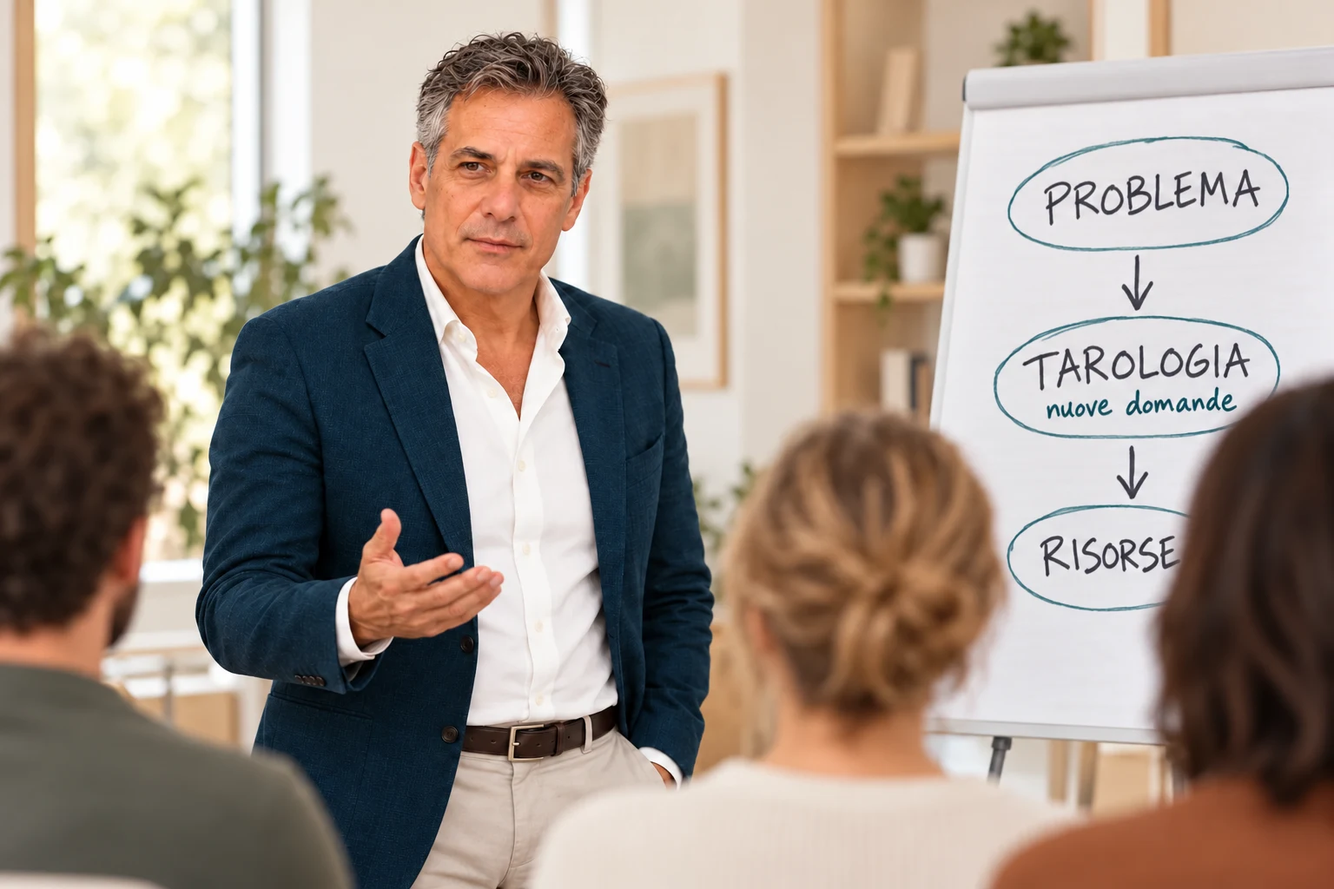
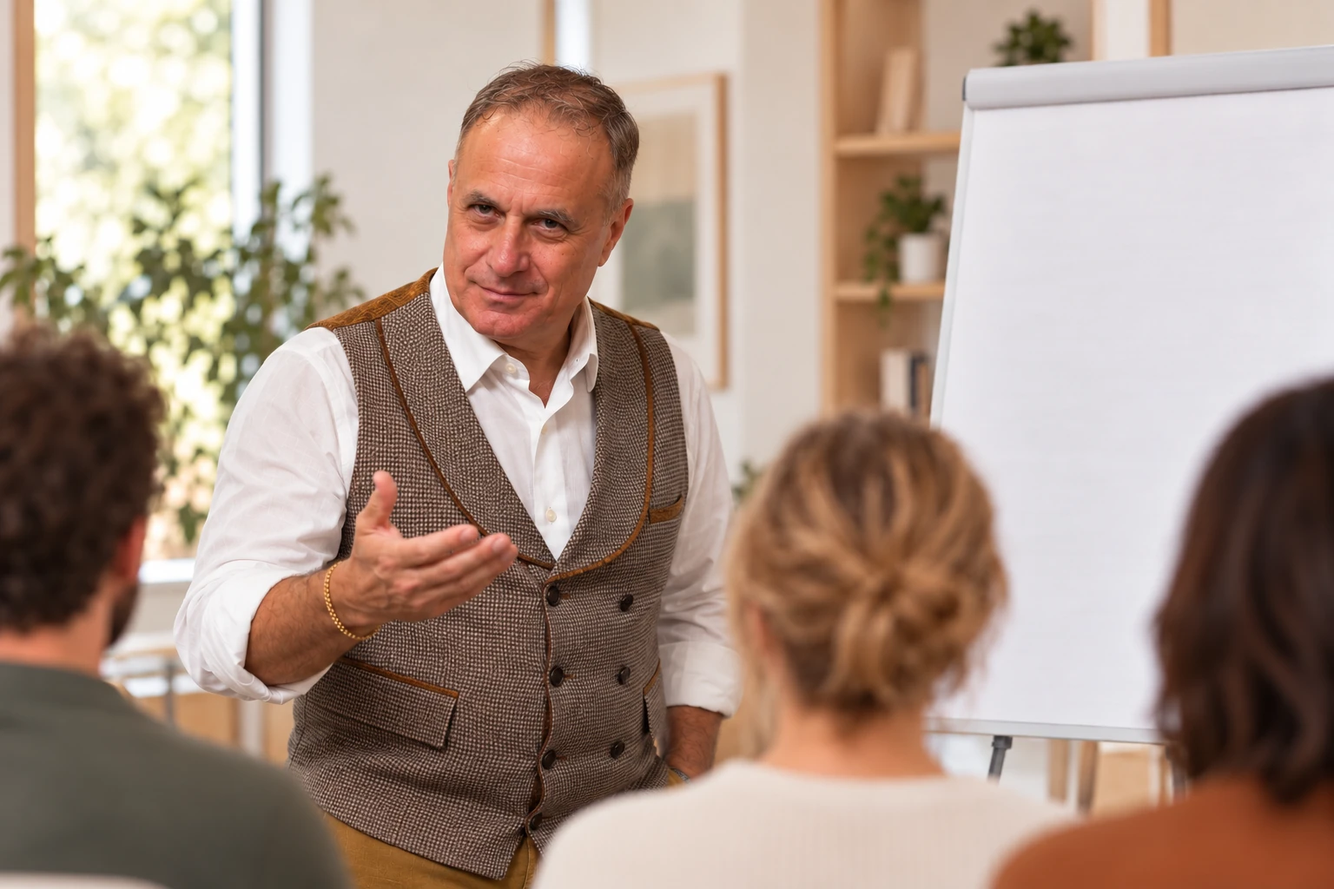
Replace Leonardo Valli photos with Paolo Musetti

diff --git a/index.html b/index.html
@@ -1,5 +1,5 @@
 <!doctype html>
-<html lang="it"><head><meta charset="utf-8"><meta name="viewport" content="width=device-width,initial-scale=1"><title>Trasformazione — Tarot and Coaching | Leonardo Valli</title><meta name="description" content="Tarologia per il business, le relazioni e i progetti. Consulenza individuale con i Tarocchi e strumenti di comunicazione."><meta name="theme-color" content="#174c49"><meta property="og:title" content="Trasformazione — Tarot and Coaching"><meta property="og:description" content="Hai un progetto da realizzare? Il primo passo è un dialogo."><meta property="og:type" content="website"><link rel="icon" href="assets/favicon.svg" type="image/svg+xml"><link rel="stylesheet" href="style.css?v=2"><script src="assets/site.js" defer></script>
+<html lang="it"><head><meta charset="utf-8"><meta name="viewport" content="width=device-width,initial-scale=1"><title>Trasformazione — Tarot and Coaching | Paolo Musetti</title><meta name="description" content="Tarologia per il business, le relazioni e i progetti. Consulenza individuale con i Tarocchi e strumenti di comunicazione."><meta name="theme-color" content="#174c49"><meta property="og:title" content="Trasformazione — Tarot and Coaching"><meta property="og:description" content="Hai un progetto da realizzare? Il primo passo è un dialogo."><meta property="og:type" content="website"><link rel="icon" href="assets/favicon.svg" type="image/svg+xml"><link rel="stylesheet" href="style.css?v=2"><script src="assets/site.js" defer></script>
 <style>
 /* Apertura con immagine intera: nessun ritaglio del volto o delle carte. */
 .hero.service-hero{position:relative;display:grid;grid-template-columns:.92fr 1.08fr;align-items:center;gap:30px;width:min(1320px,92%);margin:0 auto;min-height:0;height:auto;padding:26px 0;overflow:visible;background:#fdfcf9}
@@ -52,8 +52,8 @@
 .method-cta{margin-top:10px}
 @media(max-width:640px){.method-intro{font-size:16px;margin-bottom:16px}.method-applications{margin-top:18px;padding-top:16px}.method-cases{grid-template-columns:1fr;gap:13px}.method-cases article>p:last-child{font-size:15px}}
 </style>
-</head>
-<body><a class="skip" href="#contenuto">Vai al contenuto</a><header><a class="brand" href="./" aria-label="Trasformazione.it, home">Trasformazione.it<span>Tarot and Coaching</span></a><button class="menu-toggle" aria-controls="navigazione" aria-expanded="false" hidden>Menu <span aria-hidden="true">☰</span></button><nav id="navigazione" aria-label="Principale"><a href="consulenza.html">Consulenza</a><a href="#metodo">Metodo</a><a href="#leonardo">Leonardo</a><a href="#formazione">Formazione</a><a href="#libri">Libri</a><a class="nav-cta" href="#contatti">Parliamone ↗</a></nav></header>
+<style>.method-layout img,.profile>img,#formazione>img,.psychomagic>img,.contact-intro img{height:auto;aspect-ratio:3/2;object-fit:contain}</style></head>
+<body><a class="skip" href="#contenuto">Vai al contenuto</a><header><a class="brand" href="./" aria-label="Trasformazione.it, home">Trasformazione.it<span>Tarot and Coaching</span></a><button class="menu-toggle" aria-controls="navigazione" aria-expanded="false" hidden>Menu <span aria-hidden="true">☰</span></button><nav id="navigazione" aria-label="Principale"><a href="consulenza.html">Consulenza</a><a href="#metodo">Metodo</a><a href="#paolo">Paolo</a><a href="#formazione">Formazione</a><a href="#libri">Libri</a><a class="nav-cta" href="#contatti">Parliamone ↗</a></nav></header>
 <main id="contenuto"><section class="hero service-hero" aria-labelledby="titolo">
   <div class="hero-copy">
     <p class="eyebrow">CONSULENZA INDIVIDUALE CON I TAROCCHI</p>
@@ -64,15 +64,15 @@
     <a class="text-link" href="consulenza.html#come-si-svolge">Come si svolge la consulenza ↓</a>
   </div>
   <div class="service-visual">
-    <img src="assets/consulenza.webp" alt="Scena illustrativa della consulenza: Leonardo dialoga con una persona, con i Tarocchi sul tavolo" width="1536" height="1024" fetchpriority="high">
-    <p class="service-caption">LEONARDO VALLI</p>
+    <img src="assets/paolo-consultazione.webp" alt="Paolo Musetti dialoga con una persona con tre carte sul tavolo" width="1536" height="1024" fetchpriority="high">
+    <p class="service-caption">PAOLO MUSETTI</p>
   </div>
 </section>
 <section class="intro wrap"><p class="eyebrow">DA DOVE VUOI PARTIRE?</p><h2>Non serve avere già<br>tutte le risposte.</h2><div class="three situations"><article><span class="number">01 / UN PROGETTO</span><h3>Dare forma a un’idea.</h3><p>Un’intuizione, un nuovo percorso, qualcosa che vuoi costruire. Uno spazio per mettere a fuoco ciò che desideri e ciò che ti trattiene.</p></article><article><span class="number">02 / UN DESIDERIO</span><h3>Ascoltare ciò che emerge.</h3><p>A volte sai che vuoi cambiare, ma non hai ancora le parole. Le immagini possono offrirti un punto da cui cominciare.</p></article><article><span class="number">03 / UNA SCELTA</span><h3>Guardare le possibilità.</h3><p>Quando le strade sono più di una, osservare la situazione da un’altra prospettiva può aiutarti a formulare domande più precise.</p></article></div></section>
 <section id="metodo" class="method"><div class="wrap">
   <div class="section-heading"><div><p class="eyebrow">IL METODO, PASSO DOPO PASSO</p><h2>Dalla domanda<br>a una Traccia concreta.</h2></div><p>Le carte aprono prospettive.<br>La scelta resta tua.</p></div>
   <p class="method-intro">Il Metodo Arianna mette in relazione una domanda, le immagini dei Tarocchi e la situazione di chi le osserva. La ricerca di <em>Logos e Risonanza</em> aggiunge attenzione alle parole che emergono e a come vengono sentite. Il significato non è imposto dalla carta: prende forma nel dialogo.</p>
-  <div class="method-layout"><img src="assets/metodo.webp" alt="Leonardo osserva una carta in una scena illustrativa del metodo" width="1536" height="1024" loading="lazy"><ol class="steps">
+  <div class="method-layout"><img src="assets/paolo-carta.webp" alt="Paolo Musetti osserva una carta decorata" width="1536" height="1024" loading="lazy"><ol class="steps">
     <li><h3>Mettere a fuoco la domanda.</h3><p>Partiamo da una situazione reale e la formuliamo in modo esplorabile: una scelta, una relazione, un progetto.</p></li>
     <li><h3>Guardare l’immagine.</h3><p>Osserviamo dettagli, gesti e rapporti tra le figure prima di ricorrere ai significati già conosciuti. La carta diventa una scena da interrogare.</p></li>
     <li><h3>Ascoltare le parole e la risonanza.</h3><p>Nel dialogo notiamo quali parole attirano l’attenzione e che cosa la persona vi riconosce. Una reazione o un’emozione è uno spunto soggettivo da esplorare, non una prova.</p></li>
@@ -86,11 +86,11 @@
   <p class="method-note">Non si tratta di prevedere il futuro o di stabilire cosa devi fare. Le carte aiutano a osservare; le decisioni restano tue. Il metodo è uno strumento di esplorazione e dialogo, non sostituisce consulenze professionali specialistiche.</p>
   <a class="text-link method-cta" href="#contatti">Porta una domanda al dialogo ↗</a>
 </div></section>
-<section id="leonardo" class="split wrap profile"><div class="section-copy"><p class="eyebrow">CHI TI ACCOMPAGNA</p><h2>Leonardo Valli.<br>Uno spazio per la tua domanda.</h2><p class="lead">Immagini, ascolto e domande per esplorare progetti, scelte e cambiamenti.</p><p>Al centro ci sono la tua situazione, le immagini e le parole che emergono. L’approccio unisce osservazione, ascolto e domande precise per esplorare progetti, desideri e scelte.</p><p class="disclosure">I rapporti a voce, per iscritto e le consulenze sono seguiti personalmente. Il volto di Leonardo è elaborato digitalmente; le scene del sito sono illustrative.</p><a class="text-link" href="#metodo">Scopri l’approccio ↗</a></div><img src="assets/leonardo.webp" alt="Ritratto digitale di Leonardo Valli all’aperto" width="1536" height="1024" loading="lazy"></section>
+<section id="paolo" class="split wrap profile"><div class="section-copy"><p class="eyebrow">CHI TI ACCOMPAGNA</p><h2>Paolo Musetti.<br>Uno spazio per la tua domanda.</h2><p class="lead">Immagini, ascolto e domande per esplorare progetti, scelte e cambiamenti.</p><p>Al centro ci sono la tua situazione, le immagini e le parole che emergono. L’approccio unisce osservazione, ascolto e domande precise per esplorare progetti, desideri e scelte.</p><p class="disclosure">I rapporti a voce, per iscritto e le consulenze sono seguiti personalmente. Le immagini del sito sono elaborate digitalmente e rappresentano scene illustrative.</p><a class="text-link" href="#metodo">Scopri l’approccio ↗</a></div><img src="assets/paolo-ritratto.webp" alt="Ritratto di Paolo Musetti davanti a una biblioteca" width="1536" height="1024" loading="lazy"></section>
 <section class="quote-band"><div class="wrap"><p>Uno sguardo diverso può essere<br>l’inizio di qualcosa di concreto.</p><span>TRASFORMAZIONE / TAROT AND COACHING</span></div></section>
-<section id="formazione" class="split wrap"><img src="assets/formazione.webp" alt="Leonardo presenta alla lavagna lo schema Problema, Tarologia, Risorse" width="1536" height="1024" loading="lazy"><div class="section-copy"><p class="eyebrow">FORMAZIONE</p><h2>Imparare attraverso<br>l’esperienza.</h2><p class="lead">Immagini, parole e comunicazione diventano occasioni di pratica e confronto.</p><p>La formazione è uno spazio distinto dalla consulenza individuale. Il suo centro è l’esperienza: osservare, formulare domande, ascoltare e sperimentare modi diversi di comunicare.</p><p>Per un incontro o un percorso dedicato al tuo gruppo, raccontami il contesto e l’obiettivo: potremo valutare insieme una proposta.</p><a class="text-link" href="#contatti">Parliamo del tuo gruppo ↗</a></div></section>
+<section id="formazione" class="split wrap"><img src="assets/paolo-formazione.webp" alt="Paolo Musetti durante una spiegazione davanti a un gruppo e a una lavagna" width="1536" height="1024" loading="lazy"><div class="section-copy"><p class="eyebrow">FORMAZIONE</p><h2>Imparare attraverso<br>l’esperienza.</h2><p class="lead">Immagini, parole e comunicazione diventano occasioni di pratica e confronto.</p><p>La formazione è uno spazio distinto dalla consulenza individuale. Il suo centro è l’esperienza: osservare, formulare domande, ascoltare e sperimentare modi diversi di comunicare.</p><p>Per un incontro o un percorso dedicato al tuo gruppo, raccontami il contesto e l’obiettivo: potremo valutare insieme una proposta.</p><a class="text-link" href="#contatti">Parliamo del tuo gruppo ↗</a></div></section>
 <section id="libri" class="books wrap"><div class="section-heading"><div><p class="eyebrow">LIBRI E RICERCA</p><h2>I nostri libri</h2></div><p>Tre libri sul rapporto tra immagini,<br>parole e significato.</p></div><div class="book-list"><article><span class="book-index">01</span><div><p class="eyebrow">PAOLO MUSETTI · 2026</p><h3>TAROT — Il Metodo Arianna</h3><p class="subtitle">Tarocchi, simbolo, rito e corpo: dal significato alla Traccia.</p><p>Un percorso che mette in relazione domanda, immagine, osservazione ed esperienza personale.</p></div><a href="https://www.amazon.it/dp/B0H6354LLS" target="_blank" rel="noopener noreferrer" aria-label="TAROT — Il Metodo Arianna su Amazon, nuova scheda">Scopri su Amazon ↗</a></article><article><span class="book-index">02</span><div><p class="eyebrow">PAOLO MUSETTI · 2026</p><h3>Guarda la Carta</h3><p class="subtitle">Il metodo Occhi di Bambino per osservare i Tarocchi prima di interpretarli.</p><p>Un invito a partire da ciò che vedi: dettagli, relazioni e domande, prima dei significati già conosciuti.</p></div><a href="https://www.amazon.it/dp/B0H6C194GN" target="_blank" rel="noopener noreferrer" aria-label="Guarda la Carta su Amazon, nuova scheda">Scopri su Amazon ↗</a></article><article><span class="book-index">03</span><div><p class="eyebrow">PAOLO ABOZZI · 2026</p><h3>Logos e Risonanza</h3><p class="subtitle">La Traccia della Parola.</p><p>Una ricerca sul linguaggio, sulla risonanza corporea e sull’osservazione nel lavoro maieutico.</p></div><a href="https://amzn.eu/d/01r9u4FE" target="_blank" rel="noopener noreferrer" aria-label="Logos e Risonanza su Amazon, nuova scheda">Scopri su Amazon ↗</a></article></div></section>
-<section class="faq wrap"><p class="eyebrow">PRIMA DI INIZIARE</p><h2>Qualche domanda utile.</h2><details><summary>Su quali temi possiamo lavorare?</summary><p>Possiamo partire dal lavoro e dalla tua attività, dalle relazioni personali o professionali, oppure da un progetto. Mettiamo a fuoco la situazione, ciò che conta per te e le possibilità che vuoi esplorare.</p></details><details><summary>Devo conoscere i Tarocchi?</summary><p>No. Partiamo dall’osservazione delle immagini e dalla tua situazione. Non serve conoscere i significati tradizionali delle carte.</p></details><details><summary>Si tratta di prevedere il futuro?</summary><p>Il lavoro proposto usa i Tarocchi come strumento di esplorazione e dialogo. Le decisioni restano tue e non vengono promessi esiti futuri.</p></details><details><summary>Con chi parlerò?</summary><p>I messaggi, i colloqui e le consulenze sono seguiti personalmente. Leonardo Valli è il nome pubblico e il volto digitale del progetto Trasformazione.</p></details><details><summary>Come concordiamo l’incontro?</summary><p>Compila il modulo in fondo alla pagina oppure scrivimi via email qualche riga sulla tua richiesta. Prima di fissare un incontro, concorderemo modalità, durata e costo.</p></details><details><summary>Posso proporre un percorso per un gruppo?</summary><p>Sì. Indica il contesto, il numero di partecipanti e ciò su cui vorresti lavorare: sono il punto di partenza per valutare una proposta di formazione.</p></details></section>
+<section class="faq wrap"><p class="eyebrow">PRIMA DI INIZIARE</p><h2>Qualche domanda utile.</h2><details><summary>Su quali temi possiamo lavorare?</summary><p>Possiamo partire dal lavoro e dalla tua attività, dalle relazioni personali o professionali, oppure da un progetto. Mettiamo a fuoco la situazione, ciò che conta per te e le possibilità che vuoi esplorare.</p></details><details><summary>Devo conoscere i Tarocchi?</summary><p>No. Partiamo dall’osservazione delle immagini e dalla tua situazione. Non serve conoscere i significati tradizionali delle carte.</p></details><details><summary>Si tratta di prevedere il futuro?</summary><p>Il lavoro proposto usa i Tarocchi come strumento di esplorazione e dialogo. Le decisioni restano tue e non vengono promessi esiti futuri.</p></details><details><summary>Con chi parlerò?</summary><p>I messaggi, i colloqui e le consulenze sono seguiti personalmente. La consulenza è presentata da Paolo Musetti. Le scene del sito sono illustrative.</p></details><details><summary>Come concordiamo l’incontro?</summary><p>Compila il modulo in fondo alla pagina oppure scrivimi via email qualche riga sulla tua richiesta. Prima di fissare un incontro, concorderemo modalità, durata e costo.</p></details><details><summary>Posso proporre un percorso per un gruppo?</summary><p>Sì. Indica il contesto, il numero di partecipanti e ciò su cui vorresti lavorare: sono il punto di partenza per valutare una proposta di formazione.</p></details></section>
 <section id="contatti" class="contact">
 <div class="wrap contact-grid">
   <div class="contact-intro">
@@ -99,7 +99,7 @@
     <p>Business, relazioni, progetti.<br>Raccontami in poche righe ciò su cui vuoi lavorare: ti risponderò personalmente via email.</p>
     <p class="small">Preferisci scrivere direttamente?</p>
     <a class="email" href="mailto:consulenzavalli@gmail.com">consulenzavalli@gmail.com</a>
-    <img src="assets/progetti-v2.webp" alt="Leonardo prende appunti con cinque carte dei Tarocchi di Marsiglia disposte a croce davanti al quaderno" width="1536" height="1024" loading="lazy">
+    <img src="assets/paolo-studio.webp" alt="Paolo Musetti prende appunti accanto a un quaderno e ai Tarocchi" width="1536" height="1024" loading="lazy">
   </div>
   <form class="contact-form" action="https://formspree.io/f/xqpevbkq" method="POST" accept-charset="UTF-8" aria-labelledby="form-title">
     <h3 id="form-title">Scrivimi la tua richiesta.</h3>
@@ -118,4 +118,4 @@
   </form>
 </div>
 </section></main>
-<footer class="wrap"><div><a class="brand" href="./">Trasformazione<span>Tarot and Coaching</span></a><p>Immagini. Parole. Possibilità.</p></div><div class="footer-links"><a href="#leonardo">Chi sono</a><a href="#contatti">Contatti</a><a href="privacy.html">Privacy e informazioni sul sito</a><span>© <span data-year>2026</span> Trasformazione</span></div></footer></body></html>
+<footer class="wrap"><div><a class="brand" href="./">Trasformazione<span>Tarot and Coaching</span></a><p>Immagini. Parole. Possibilità.</p></div><div class="footer-links"><a href="#paolo">Chi sono</a><a href="#contatti">Contatti</a><a href="privacy.html">Privacy e informazioni sul sito</a><span>© <span data-year>2026</span> Trasformazione</span></div></footer></body></html>

diff --git a/consulenza.html b/consulenza.html
@@ -47,14 +47,14 @@
     @media(max-width:900px){.consult-hero{grid-template-columns:1fr 1fr;gap:25px}.case-card{grid-template-columns:1fr}.case-card img{order:0}}
     @media(max-width:640px){.consult-hero{grid-template-columns:1fr;gap:14px;padding:16px 0 20px}.consult-hero h1{font-size:38px}.consult-hero .service-lead{font-size:19px}.consult-hero .service-visual{grid-row:1}.consult-hero .hero-copy{grid-row:2}.intro-copy{padding:0 0 24px}.intro-copy p{font-size:16px}.consult-method{padding:18px 0;margin:0 0 8px}.consult-method .method-layout{grid-template-columns:1fr}.psychomagic{grid-template-columns:1fr;padding:12px 0 18px}.psychomagic>img{grid-row:1}.case-grid{grid-template-columns:1fr;gap:16px}.case-card{grid-template-columns:1fr;gap:12px}.case-card img{aspect-ratio:16/9}.case-card h3{font-size:20px}.consult-cta .wrap{display:block}.consult-cta .button{margin-top:14px}}
   </style>
-</head>
+<style>.method-layout img,.profile>img,#formazione>img,.psychomagic>img,.contact-intro img{height:auto;aspect-ratio:3/2;object-fit:contain}</style></head>
 <body>
   <a class="skip" href="#contenuto">Vai al contenuto</a>
   <header>
     <a class="brand" href="./" aria-label="Trasformazione.it, home">Trasformazione.it<span>Tarot and Coaching</span></a>
     <button class="menu-toggle" aria-controls="navigazione" aria-expanded="false" hidden>Menu <span aria-hidden="true">☰</span></button>
     <nav id="navigazione" aria-label="Principale">
-      <a href="consulenza.html" aria-current="page">Consulenza</a><a href="index.html#metodo">Metodo</a><a href="index.html#leonardo">Leonardo</a><a href="index.html#formazione">Formazione</a><a href="index.html#libri">Libri</a><a class="nav-cta" href="index.html#contatti">Parliamone ↗</a>
+      <a href="consulenza.html" aria-current="page">Consulenza</a><a href="index.html#metodo">Metodo</a><a href="index.html#paolo">Paolo</a><a href="index.html#formazione">Formazione</a><a href="index.html#libri">Libri</a><a class="nav-cta" href="index.html#contatti">Parliamone ↗</a>
     </nav>
   </header>
   <main id="contenuto">
@@ -68,8 +68,8 @@
         <a class="text-link" href="#come-si-svolge">Come si svolge il percorso ↓</a>
       </div>
       <div class="service-visual">
-        <img src="assets/consulenza-dialogo.webp" alt="Scena illustrativa: Leonardo ascolta una persona durante un dialogo con alcune carte dei Tarocchi di Marsiglia sul tavolo" width="1536" height="1024" fetchpriority="high">
-        <p class="service-caption">LEONARDO VALLI · SCENA ILLUSTRATIVA</p>
+        <img src="assets/paolo-consultazione.webp" alt="Paolo Musetti dialoga con una persona con tre carte sul tavolo" width="1536" height="1024" fetchpriority="high">
+        <p class="service-caption">PAOLO MUSETTI · SCENA ILLUSTRATIVA</p>
       </div>
     </section>
 
@@ -87,7 +87,7 @@
         </div>
         <p class="method-intro">Il Metodo Arianna mette in relazione la domanda, le immagini dei Tarocchi e la situazione della persona. Procediamo con attenzione a ciò che vedi, alle associazioni che emergono e alle parole che senti vicine alla tua esperienza.</p>
         <div class="method-layout">
-          <img src="assets/metodo-arianna.webp" alt="Quaderno e carte dei Tarocchi di Marsiglia durante un momento di osservazione e dialogo" width="1536" height="1024" loading="lazy">
+          <img src="assets/paolo-studio.webp" alt="Paolo Musetti prende appunti accanto a un quaderno e ai Tarocchi" width="1536" height="1024" loading="lazy">
           <ol class="steps">
             <li><h3>Aprire il Campo.</h3><p>Creiamo uno spazio di ascolto e mettiamo a fuoco il tema che desideri portare.</p></li>
             <li><h3>Formulare la domanda.</h3><p>Partiamo dalla situazione concreta e troviamo insieme una domanda aperta, utile da esplorare.</p></li>
@@ -101,7 +101,7 @@
     </section>
 
     <section class="psychomagic split wrap" aria-labelledby="gesto-titolo">
-      <img src="assets/gesto-simbolico.webp" alt="Una persona scrive una parola su un foglio durante il dialogo con Leonardo" width="1536" height="1024" loading="lazy">
+      <img src="assets/paolo-consultazione.webp" alt="Paolo Musetti dialoga con una persona con tre carte sul tavolo" width="1536" height="1024" loading="lazy">
       <div class="section-copy">
         <p class="eyebrow">DAL SIMBOLO A UN GESTO POSSIBILE</p>
         <h2 id="gesto-titolo">Quando la Traccia<br>prende forma.</h2>
@@ -116,10 +116,10 @@
         <p>Esempi per immaginare<br>come si può partire.</p>
       </div>
       <div class="case-grid">
-        <article class="case-card"><img src="assets/progetto-creativo.webp" alt="Un musicista condivide un progetto creativo con Leonardo" width="1536" height="1024" loading="lazy"><div><p class="eyebrow">PROGETTO CREATIVO</p><h3>«Ho un’idea, ma non riesco a darle forma.»</h3><p>Per esempio, una musicista ha una melodia in mente e vuole capire che cosa manca per esprimere ciò che desidera.</p></div></article>
-        <article class="case-card"><img src="assets/scelta-professionale.webp" alt="Una professionista riflette su una scelta lavorativa insieme a Leonardo" width="1536" height="1024" loading="lazy"><div><p class="eyebrow">SCELTA PROFESSIONALE</p><h3>«Sto pensando a un cambiamento.»</h3><p>Una persona valuta se restare nel proprio ruolo o esplorare una nuova direzione e vuole chiarire quali aspetti considerare.</p></div></article>
-        <article class="case-card"><img src="assets/relazione.webp" alt="Una persona parla della propria esperienza relazionale con Leonardo" width="1536" height="1024" loading="lazy"><div><p class="eyebrow">RELAZIONE</p><h3>«Vorrei capire meglio cosa sto vivendo.»</h3><p>Una persona desidera mettere a fuoco bisogni, aspettative e possibilità nel proprio modo di vivere una relazione.</p></div></article>
-        <article class="case-card"><img src="assets/laboratorio-progetto.webp" alt="Una donna progetta un laboratorio con Leonardo, tra quaderno e schede" width="1536" height="1024" loading="lazy"><div><p class="eyebrow">PROGETTO DA AVVIARE</p><h3>«Vorrei iniziare, ma da dove?»</h3><p>Per esempio, chi desidera proporre un laboratorio può esplorare cosa vuole offrire e quale primo passo è alla sua portata.</p></div></article>
+        <article class="case-card"><img src="assets/paolo-consultazione.webp" alt="Paolo Musetti dialoga con una persona con tre carte sul tavolo" width="1536" height="1024" loading="lazy"><div><p class="eyebrow">PROGETTO CREATIVO</p><h3>«Ho un’idea, ma non riesco a darle forma.»</h3><p>Per esempio, una musicista ha una melodia in mente e vuole capire che cosa manca per esprimere ciò che desidera.</p></div></article>
+        <article class="case-card"><img src="assets/paolo-consultazione.webp" alt="Paolo Musetti dialoga con una persona con tre carte sul tavolo" width="1536" height="1024" loading="lazy"><div><p class="eyebrow">SCELTA PROFESSIONALE</p><h3>«Sto pensando a un cambiamento.»</h3><p>Una persona valuta se restare nel proprio ruolo o esplorare una nuova direzione e vuole chiarire quali aspetti considerare.</p></div></article>
+        <article class="case-card"><img src="assets/paolo-consultazione.webp" alt="Paolo Musetti dialoga con una persona con tre carte sul tavolo" width="1536" height="1024" loading="lazy"><div><p class="eyebrow">RELAZIONE</p><h3>«Vorrei capire meglio cosa sto vivendo.»</h3><p>Una persona desidera mettere a fuoco bisogni, aspettative e possibilità nel proprio modo di vivere una relazione.</p></div></article>
+        <article class="case-card"><img src="assets/paolo-consultazione.webp" alt="Paolo Musetti dialoga con una persona con tre carte sul tavolo" width="1536" height="1024" loading="lazy"><div><p class="eyebrow">PROGETTO DA AVVIARE</p><h3>«Vorrei iniziare, ma da dove?»</h3><p>Per esempio, chi desidera proporre un laboratorio può esplorare cosa vuole offrire e quale primo passo è alla sua portata.</p></div></article>
       </div>
       <p class="case-note">Sono esempi illustrativi, non testimonianze di clienti. Ogni consulenza parte dalla situazione e dalle parole di chi la porta.</p>
     </section>

diff --git a/privacy.html b/privacy.html
@@ -1,1 +1,1 @@
-<!doctype html><html lang="it"><head><meta charset="utf-8"><meta name="viewport" content="width=device-width,initial-scale=1"><title>Privacy e informazioni — Trasformazione</title><meta name="robots" content="noindex"><link rel="stylesheet" href="assets/style.css"><link rel="icon" href="assets/favicon.svg"></head><body><header><a class="brand" href="./">Trasformazione<span>Tarot and Coaching</span></a><a href="index.html#contatti">Contatti ↗</a></header><main class="wrap legal"><p class="eyebrow">INFORMAZIONI SUL SITO</p><h1>Una presenza trasparente.</h1><h2>Il progetto e le immagini</h2><p>Trasformazione è il progetto di Paolo Abozzi. Leonardo Valli è il nome pubblico e il volto digitale del progetto. I contatti e le consulenze sono seguiti personalmente da Paolo. Le immagini sono elaborate digitalmente e rappresentano scene illustrative, non documentano clienti o eventi reali.</p><h2>Navigazione</h2><p>Questo sito non integra strumenti di analisi del traffico, pubblicità, moduli di raccolta dati o cookie impostati dal suo codice. Font, immagini e script sono ospitati insieme alle pagine. Il servizio che ospita il sito può trattare dati tecnici necessari alla navigazione secondo la propria informativa.</p><h2>Email e siti esterni</h2><p>I collegamenti email aprono la tua applicazione di posta. Il sito non riceve né archivia il messaggio. I dati che decidi di inviare saranno ricevuti dal destinatario attraverso il servizio email. Per domande sulla gestione della corrispondenza puoi scrivere a <a href="mailto:magopaolo@libero.it">magopaolo@libero.it</a>.</p><p>I collegamenti ai libri portano ad Amazon. Visitando siti esterni si applicano le relative condizioni e informative.</p><a href="index.html">← Torna alla home</a></main></body></html>
+<!doctype html><html lang="it"><head><meta charset="utf-8"><meta name="viewport" content="width=device-width,initial-scale=1"><title>Privacy e informazioni — Trasformazione</title><meta name="robots" content="noindex"><link rel="stylesheet" href="assets/style.css"><link rel="icon" href="assets/favicon.svg"><style>.method-layout img,.profile>img,#formazione>img,.psychomagic>img,.contact-intro img{height:auto;aspect-ratio:3/2;object-fit:contain}</style></head><body><header><a class="brand" href="./">Trasformazione<span>Tarot and Coaching</span></a><a href="index.html#contatti">Contatti ↗</a></header><main class="wrap legal"><p class="eyebrow">INFORMAZIONI SUL SITO</p><h1>Una presenza trasparente.</h1><h2>Il progetto e le immagini</h2><p>Trasformazione è il progetto di Paolo Abozzi. I contatti e le consulenze sono seguiti personalmente da Paolo. Le immagini sono elaborate digitalmente e rappresentano scene illustrative, non documentano clienti o eventi reali.</p><h2>Navigazione</h2><p>Questo sito non integra strumenti di analisi del traffico, pubblicità, moduli di raccolta dati o cookie impostati dal suo codice. Font, immagini e script sono ospitati insieme alle pagine. Il servizio che ospita il sito può trattare dati tecnici necessari alla navigazione secondo la propria informativa.</p><h2>Email e siti esterni</h2><p>I collegamenti email aprono la tua applicazione di posta. Il sito non riceve né archivia il messaggio. I dati che decidi di inviare saranno ricevuti dal destinatario attraverso il servizio email. Per domande sulla gestione della corrispondenza puoi scrivere a <a href="mailto:magopaolo@libero.it">magopaolo@libero.it</a>.</p><p>I collegamenti ai libri portano ad Amazon. Visitando siti esterni si applicano le relative condizioni e informative.</p><a href="index.html">← Torna alla home</a></main></body></html>

diff --git a/grazie.html b/grazie.html
@@ -1,1 +1,1 @@
-<!doctype html><html lang="it"><head><meta charset="utf-8"><meta name="viewport" content="width=device-width,initial-scale=1"><meta name="robots" content="noindex"><title>Grazie per il messaggio — Trasformazione</title><link rel="stylesheet" href="style.css?v=2"><link rel="icon" href="assets/favicon.svg"></head><body><header><a class="brand" href="./">Trasformazione<span>Tarot and Coaching</span></a></header><main class="wrap legal"><p class="eyebrow">IL PRIMO PASSO È UN DIALOGO</p><h1>Grazie per avermi scritto.</h1><p>La richiesta è stata inoltrata. Ti risponderò all’indirizzo email che hai indicato nel modulo.</p><p>Per altre informazioni puoi scrivere a <a href="mailto:consulenzavalli@gmail.com">consulenzavalli@gmail.com</a>.</p><a class="button" href="./">Torna al sito <span aria-hidden="true">↗</span></a></main></body></html>
+<!doctype html><html lang="it"><head><meta charset="utf-8"><meta name="viewport" content="width=device-width,initial-scale=1"><meta name="robots" content="noindex"><title>Grazie per il messaggio — Trasformazione</title><link rel="stylesheet" href="style.css?v=2"><link rel="icon" href="assets/favicon.svg"><style>.method-layout img,.profile>img,#formazione>img,.psychomagic>img,.contact-intro img{height:auto;aspect-ratio:3/2;object-fit:contain}</style></head><body><header><a class="brand" href="./">Trasformazione<span>Tarot and Coaching</span></a></header><main class="wrap legal"><p class="eyebrow">IL PRIMO PASSO È UN DIALOGO</p><h1>Grazie per avermi scritto.</h1><p>La richiesta è stata inoltrata. Ti risponderò all’indirizzo email che hai indicato nel modulo.</p><p>Per altre informazioni puoi scrivere a <a href="mailto:consulenzavalli@gmail.com">consulenzavalli@gmail.com</a>.</p><a class="button" href="./">Torna al sito <span aria-hidden="true">↗</span></a></main></body></html>

diff --git a/README.md b/README.md
@@ -4,4 +4,4 @@ Questa versione contiene la home e la nuova pagina autonoma `consulenza.html`.
 
 Per GitHub Pages, estrai tutti i file e la cartella `assets` nella root del repository, sovrascrivendo i file esistenti. In `Settings → Pages`, pubblica dal branch `main` e dalla cartella `/ (root)`.
 
-Le scene con Leonardo e le altre persone sono immagini illustrative.
+Le immagini con Paolo Musetti e le altre persone sono elaborate digitalmente e rappresentano scene illustrative.

diff --git a/assets/README.md b/assets/README.md
@@ -4,4 +4,4 @@ Questa versione contiene la home e la nuova pagina autonoma `consulenza.html`.
 
 Per GitHub Pages, estrai tutti i file e la cartella `assets` nella root del repository, sovrascrivendo i file esistenti. In `Settings → Pages`, pubblica dal branch `main` e dalla cartella `/ (root)`.
 
-Le scene con Leonardo e le altre persone sono immagini illustrative.
+Le immagini con Paolo Musetti e le altre persone sono elaborate digitalmente e rappresentano scene illustrative.
